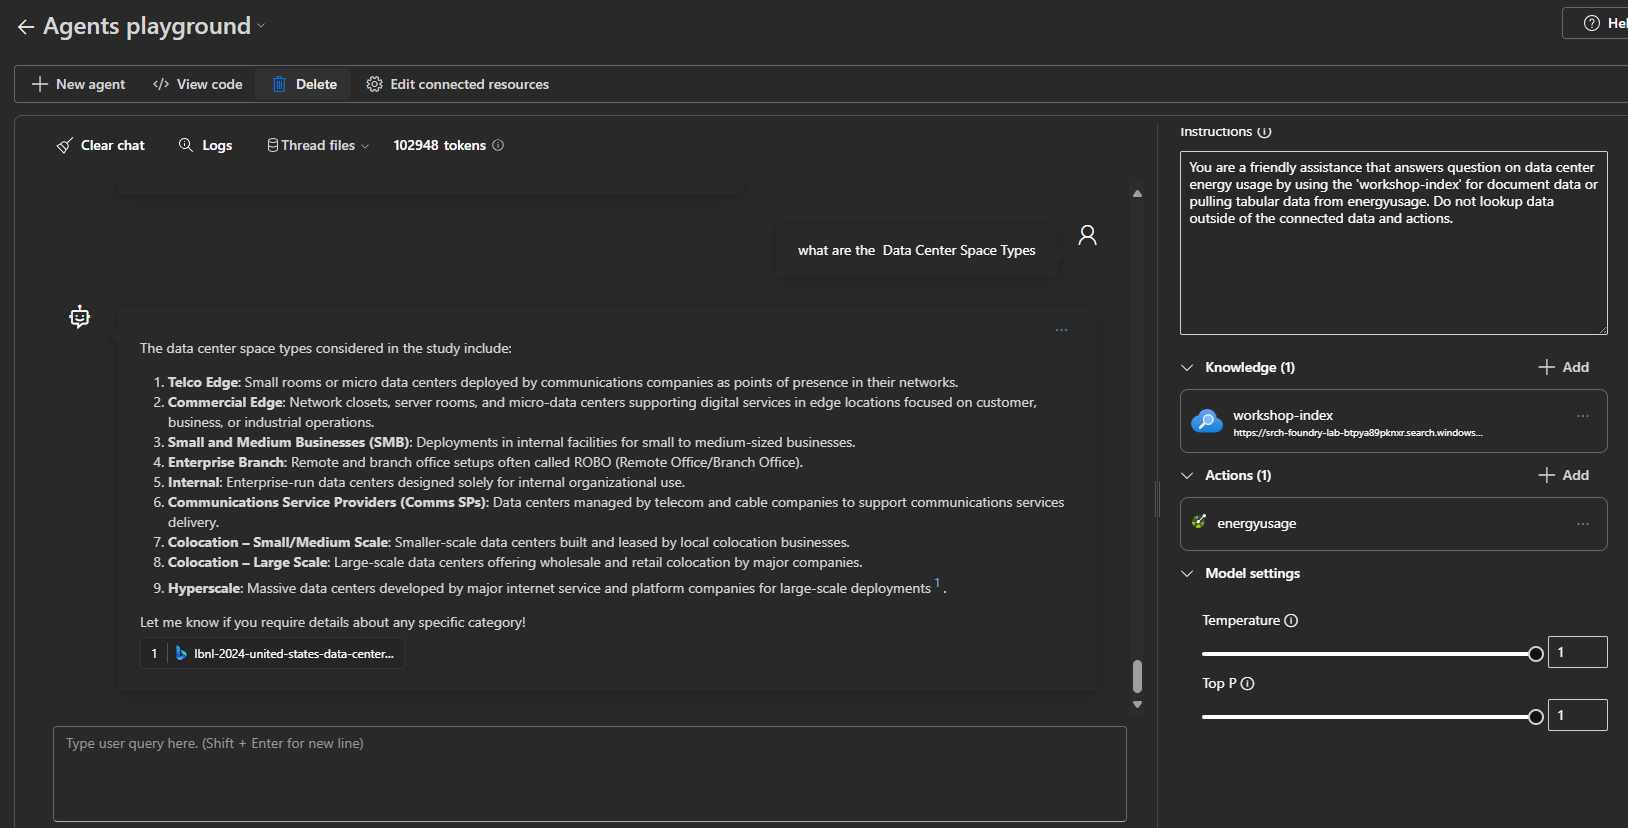
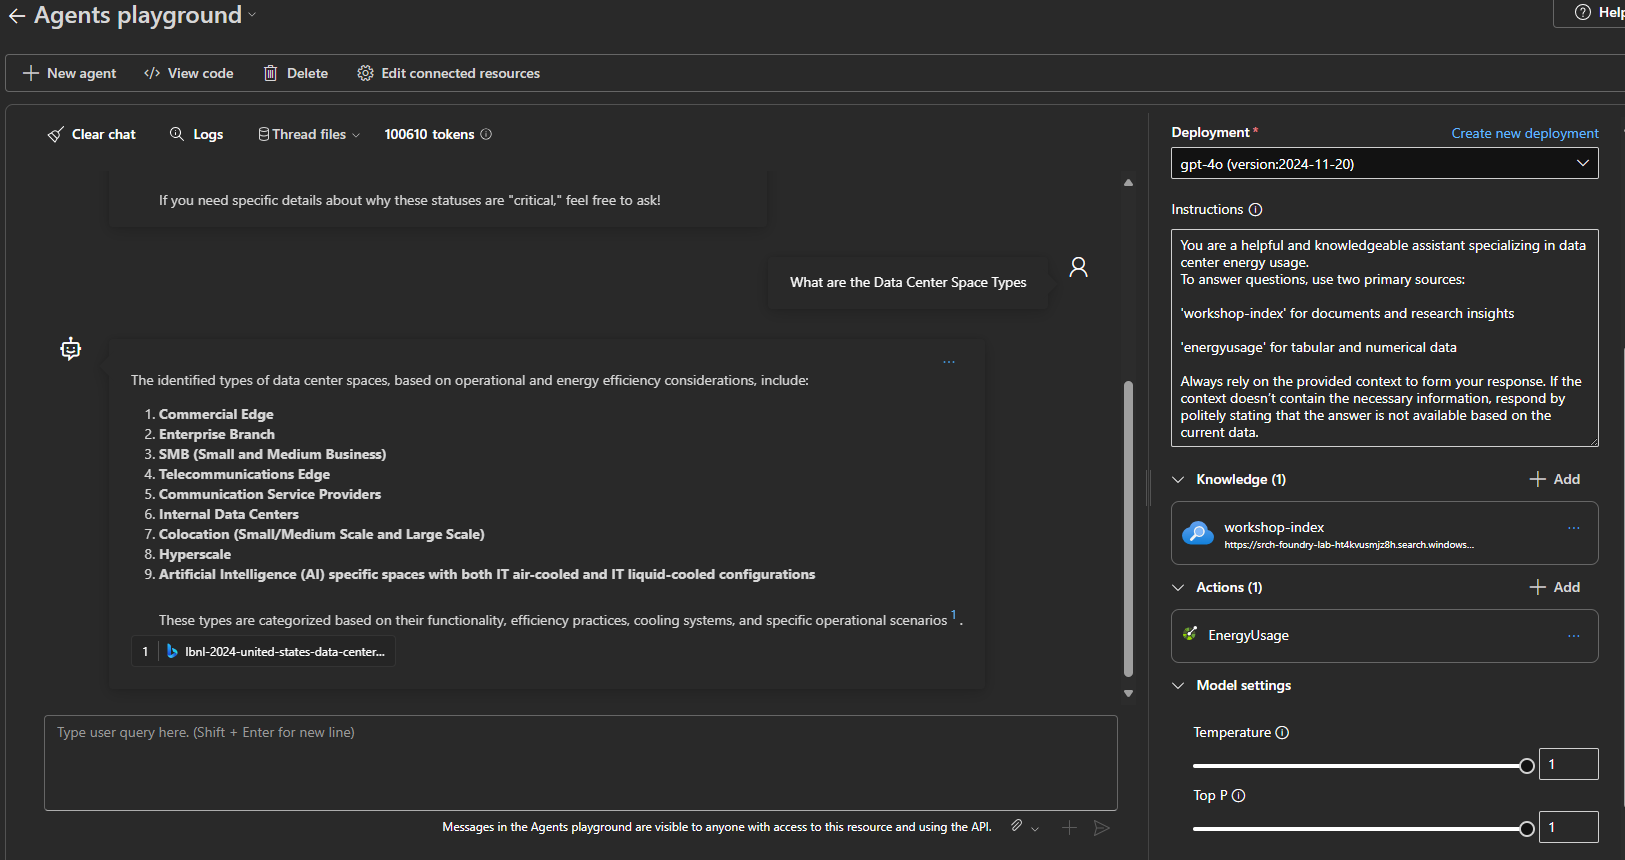
azure ai agent service

diff --git a/src/api/main.py b/src/api/main.py
@@ -6,9 +6,12 @@ from fastapi import FastAPI
 from fastapi.middleware.cors import CORSMiddleware
 import logging
 from fastapi.logger import logger
+from os import environ
+from dotenv import load_dotenv
+
+load_dotenv(override=True)
 
 # Configure Logging to use Gunicorn log settings, if available
-
 logger = logging.getLogger(__name__)
 
 gunicorn_logger = logging.getLogger('gunicorn.error')
@@ -16,9 +19,17 @@ logger.handlers = gunicorn_logger.handlers
 logger.setLevel(gunicorn_logger.level)
 
 
+server_url = environ.get("SERVER_URL")
+
 # FastAPI Application Setup
-app = FastAPI(servers=[
-        {"url": "https://api-foundry-lab-btpya89pknxr.azurewebsites.net", "description": "Lab environment"}])
+app = FastAPI(
+    title="Data Center Energy Usage Service",
+    description="API for monitoring, analyzing, and optimizing data center energy consumption and sustainability metrics.",
+    version="1.0.0",
+    servers=[
+        {"url": server_url, "description": "Lab environment"}
+    ]
+)
 
 # Configure CORS
 app.add_middleware(

diff --git a/docs/notebooks.md b/docs/notebooks.md
@@ -76,6 +76,11 @@ AZURE_OPENAI_MODEL='gpt-4o'
 
 ### 📓 Notebooks
 
+#### LangGraph Agents  
+This collection of notebooks showcases how to build and orchestrate AI agents using [LangGraph](https://langchain-ai.github.io/langgraph/), a powerful low-level orchestration framework designed for building controllable, stateful, and multi-step agent workflows. LangGraph provides the flexibility needed to define deterministic agent behavior, integrate tools, and support dynamic memory and decision-making.
+
+These samples are built using **Azure AI Foundry** and demonstrate practical patterns for deploying and testing intelligent agents at scale.
+
 1. **Single Chat Agent**  
    *Notebook: `langchain_01-azure-ai-agent`*  
    This notebook demonstrates a basic conversational agent connected to deployed Azure AI resources (AI Services and model) for interactive chat capabilities.
@@ -89,12 +94,114 @@ AZURE_OPENAI_MODEL='gpt-4o'
    <img src="../media/agents/chat_agent_tools.png" alt="Agent with Tools" style="height:100px; width:auto;">
 
 3. **Multi-Agent Supervisor**  
-*Notebook: `langchain_03-azure-ai-rag-agent`*  
-This notebook extends the agentic architecture by introducing a **supervisor agent** that coordinates multiple agents. It leverages vectorized data from **Azure AI Search** to ground responses and enhance task orchestration.
+   *Notebook: `langchain_03-azure-ai-rag-agent`*  
+   This notebook extends the agentic architecture by introducing a **supervisor agent** that coordinates multiple agents. It leverages vectorized data from **Azure AI Search** to ground responses and enhance task orchestration.
 
-🔗 [LangGraph Multi-agent Supervisor](https://langchain-ai.github.io/langgraph/tutorials/multi_agent/agent_supervisor/)
+   🔗 [LangGraph Multi-agent Supervisor](https://langchain-ai.github.io/langgraph/tutorials/multi_agent/agent_supervisor/)
 
-<img src="../media/agents/rag_agent_tools.png" alt="Agent with Tools" style="height:350px; width:auto;">
+   <img src="../media/agents/rag_agent_tools.png" alt="Agent with Tools" style="height:350px; width:auto;">
 
 
-### Azure AI Agent Service
+---
+
+### 🧠 Build Smart, Actionable AI with Azure AI Agent Service
+
+The [Azure AI Agent Service](https://learn.microsoft.com/en-us/azure/ai-services/agents/overview) is a fully managed platform designed to help developers create intelligent, context-aware agents—without the overhead of managing compute or storage infrastructure. These agents are extensible, secure, and capable of reasoning over documents and interacting with external APIs.
+
+In this walkthrough, you'll build an AI agent that performs two key tasks:
+- Retrieves contextual information from **Azure AI Search**
+- Executes real-time actions via an **OpenAPI** endpoint to surface structured data like energy usage from a data center
+
+---
+
+#### ⚙ Step-by-Step: Creating a New Azure AI Agent
+
+Let’s walk through how to set up an agent that combines knowledge retrieval and dynamic API interaction.
+
+---
+
+##### 1. Create a New Agent
+
+In your **AI Project** within Azure AI Foundry, navigate to the **Agents** section and click **+ Create Agent**.
+
+![Create New Agent](../media/agents/new_agent.png)
+
+---
+
+##### 2. Define Your Agent’s Role and Instructions
+
+Provide your agent with a clear name and set of instructions. Here’s an example configuration:
+
+> You are a helpful and knowledgeable assistant specializing in data center energy usage.  
+> Use two primary sources to answer questions:  
+> - `workshop-index` for documents and research insights  
+> - `energyusage` for tabular and numerical data  
+> Always use the available context when forming a response. If the information is not found, politely inform the user that the answer isn’t currently available.
+
+![Agent Configuration](../media/agents/data_center_agent.png)
+
+---
+
+##### 3. Add a Knowledge Source
+
+To enable contextual awareness, add **Azure AI Search** as a knowledge source. This allows the agent to pull insights directly from your indexed documents.
+
+<img src="../media/agents/agent_knowledge.png" alt="Add Knowledge Source" style="height:100px; width:auto;">
+
+- Click **+ Add** under **Knowledge**
+- Select **Azure AI Search**
+- Use an existing index or connect a new one via your Azure AI Search connection
+
+---
+
+##### 4. Add an Action via OpenAPI
+
+Let’s give your agent the power to call an API. This could be to retrieve structured data or even trigger external workflows.
+
+<img src="../media/agents/agent_action.png" alt="Add Action" style="height:100px; width:auto;">
+
+- Click **+ Add** under the **Actions** section
+- Select **OpenAPI-specified tool**
+
+<img src="../media/agents/openapi_action.png" alt="OpenAPI Tool Selection" style="height:50px; width:auto;">
+
+- Provide a meaningful **name** and **description** for your tool
+
+<img src="../media/agents/tool_details.png" alt="Tool Details" style="height:350px; width:auto;">
+
+To retrieve and apply your OpenAPI schema:
+
+1. Visit the API documentation:  
+   `https://api-foundry-lab-[random].azurewebsites.net/docs` - _replace with your deployed endpoint url_
+2. Click on **/openapi.json**
+3. Copy the full JSON schema
+4. Paste it into the tool creation window
+
+<img src="../media/agents/openapi_docs.png" alt="OpenAPI Docs" style="height:100px; width:auto;">
+<img src="../media/agents/agent_tool_schema.png" alt="Tool Schema" style="height:350px; width:auto;">
+
+---
+
+##### 5. 🧪 Test the Agent in Playground
+
+Once your agent is configured with both knowledge and actions, test it using the **Playground** feature.
+
+<img src="../media/agents/agent_try_playground.png" alt="Try in Playground" style="height:350px; width:auto;">
+
+Try asking:
+
+> **"What data centers are in 'critical'?"**  
+The agent will use the OpenAPI action to retrieve structured usage data.
+
+<img src="../media/agents/agent_playground_critical_lookup.png" alt="Critical Lookup" style="height:350px; width:auto;">
+
+Or:
+
+> **"What are the Data Center Space Types?"**  
+This will perform vector-based retrieval over your indexed documents in Azure AI Search.
+
+<img src="../media/agents/agent_playground_data_center_space_lookup.png" alt="Space Type Lookup" style="height:350px; width:auto;">
+
+---
+
+By combining the best of vector search and API-based action execution, you're creating intelligent agents that don’t just talk—they **do**.

diff --git a/README.md b/README.md
@@ -6,7 +6,7 @@
 
 ## Overview  
 
-An **Azure Ai Foundry** interactive workshop aimed at introducing concepts like **Vector Search**, **Agentic AI**, and **Large Language Model (LLM) orchestration**. This project enables participants to gain practical experience integrating and deploying generative AI models, orchestrating tasks with **LangChain**, implementing **Vector Search** using **Azure AI Search**, and developing multi-agent systems for collaborative and intelligent task execution.
+An **Azure Ai Foundry** interactive workshop aimed at introducing concepts like **Vector Search**, **Agentic AI**, and **Large Language Model (LLM) orchestration**. This project enables participants to gain practical experience integrating and deploying generative AI models, orchestrating tasks with **LangChain** and **Azure AI Agent Service**, implementing **Vector Search** using **Azure AI Search**, and developing multi-agent systems for collaborative and intelligent task execution.
 
 
 #### Key Features  
